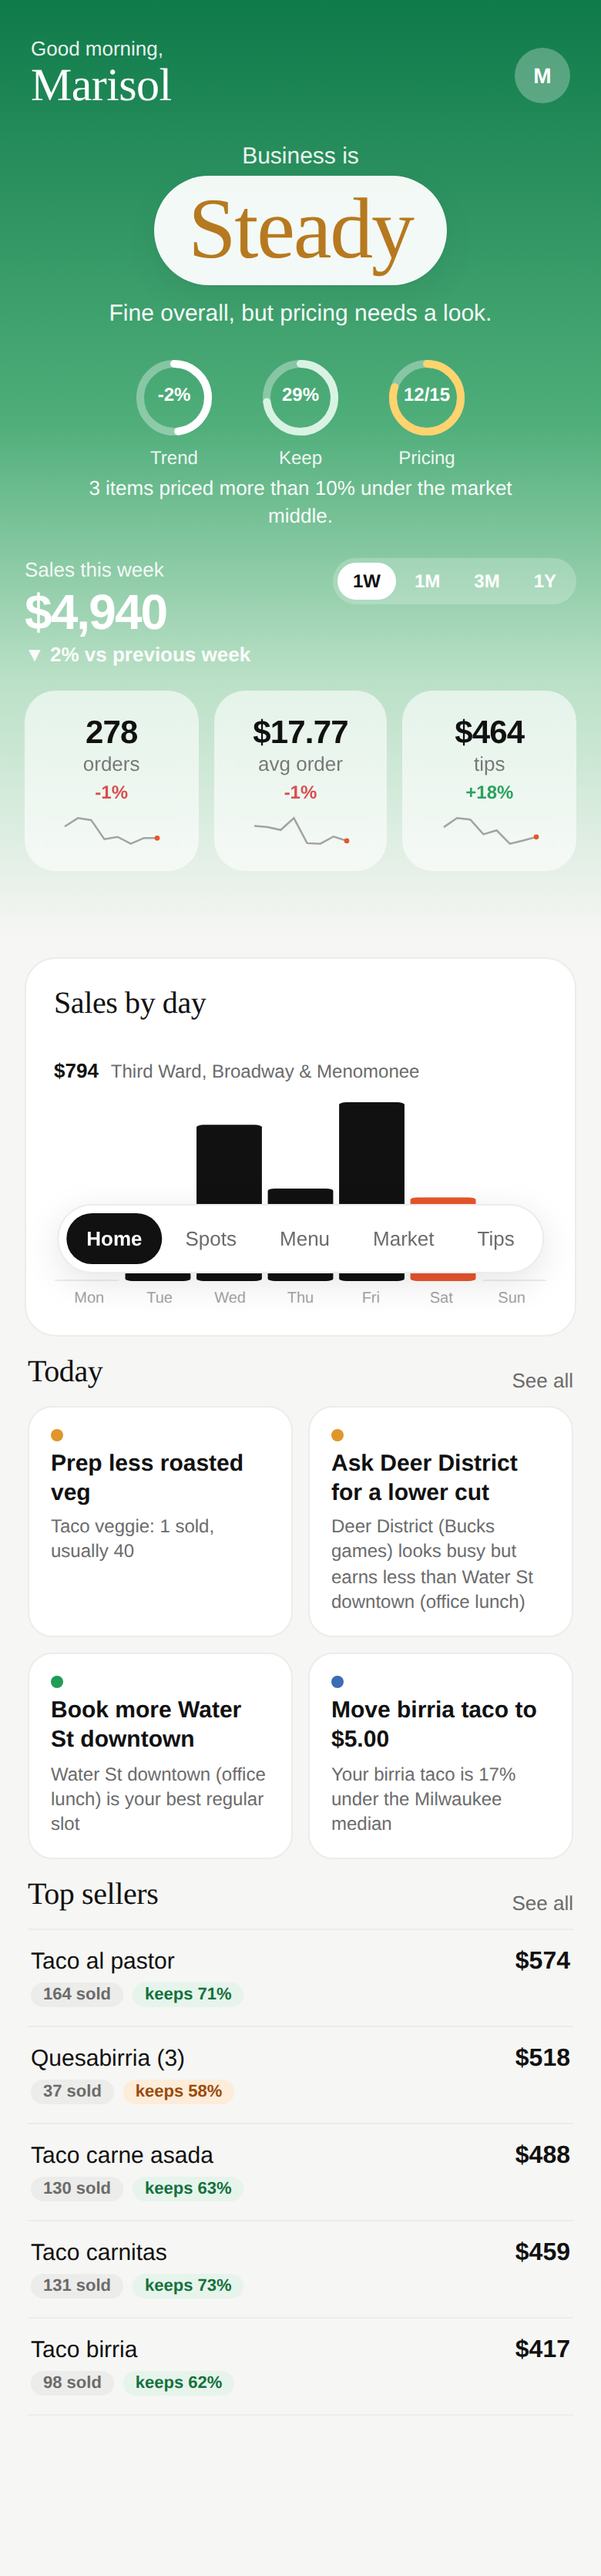
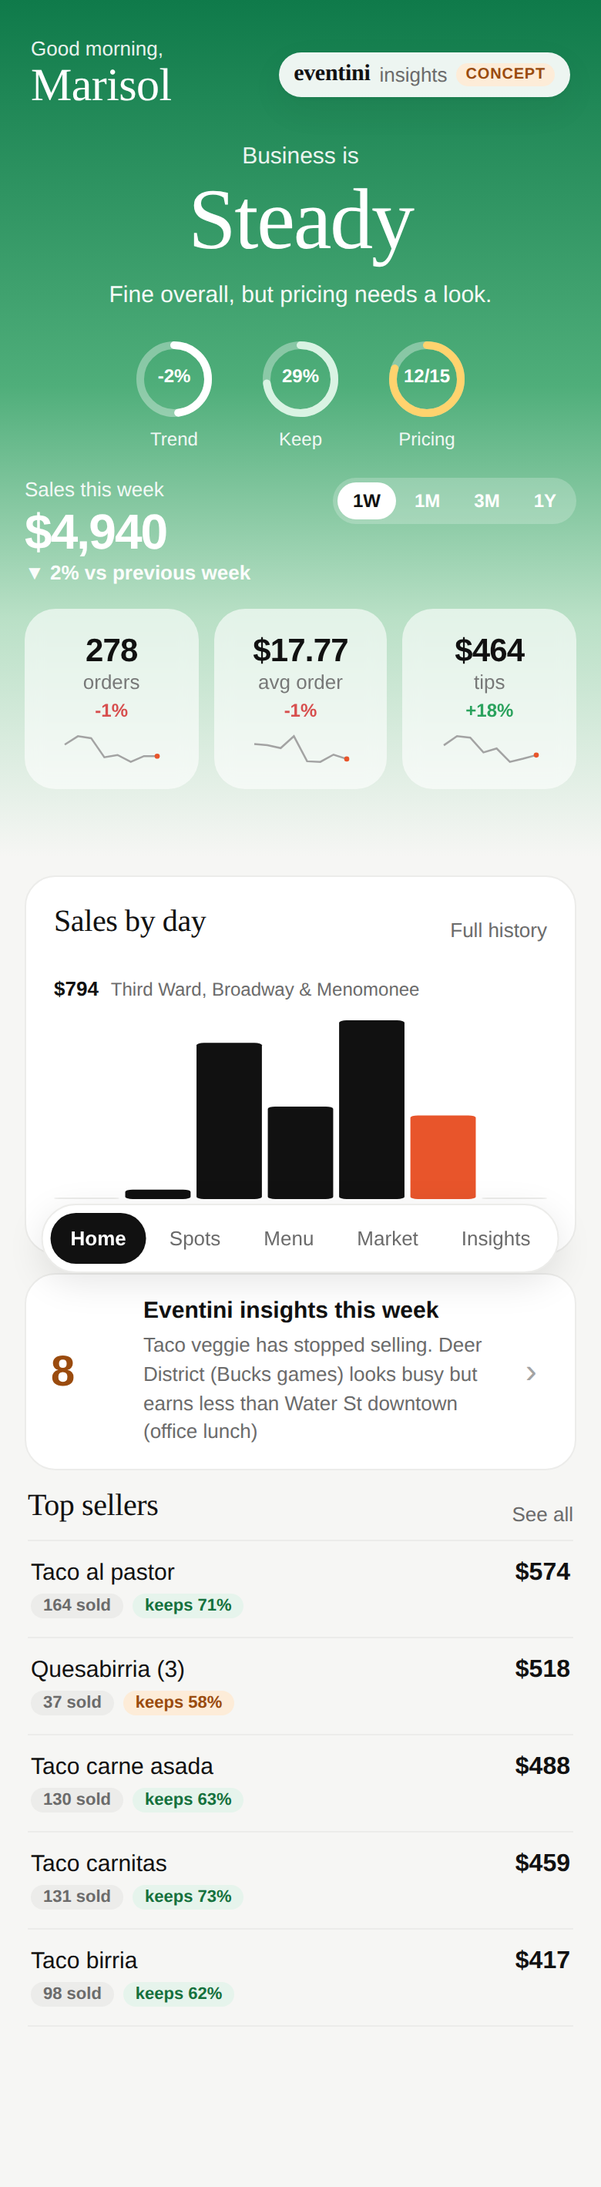
Insights as a page of number-first rows; Home gets one line
The Tips screen becomes Insights, grouped by Stock, Sales, Spots, Menu,
Market, Weather and Tips. Each row leads with its figure, then the claim
and the evidence; tap to open the actions and the method. Home drops the
2x2 action grid for a single line with the count and the two headline
insights. /tips still routes to the new page.

Claude-Session: https://claude.ai/code/session_011kULvXi1EhLGoQfkcWDNEp

diff --git a/food-truck-app/src/lib/insights.ts b/food-truck-app/src/lib/insights.ts
@@ -13,6 +13,8 @@ export type Insight = {
   evidence: string
   action?: string
   short: string            // a few words, imperative, for the Today tiles
+  figure: string           // the one number that leads the row
+  section: 'Sales' | 'Spots' | 'Menu' | 'Market' | 'Weather' | 'Tips'
 }
 
 export function weeklyInsights(): Insight[] {
@@ -28,6 +30,7 @@ export function weeklyInsights(): Insight[] {
     out.push({
       id: 'wow', tone: ch >= 0 ? 'good' : 'warn',
       short: `Sales ${ch >= 0 ? 'up' : 'down'} ${pct(Math.abs(ch), false)}`,
+      figure: pct(ch), section: 'Sales',
       title: `Sales ${ch >= 0 ? 'up' : 'down'} ${pct(Math.abs(ch), false)} on last week`,
       body: best
         ? `${money(now.gross)} this week against ${money(prev.gross)} last week. Best day was ${weekday(best.date)} at ${locationById.get(best.location_id!)?.name} (${money(best.gross_sales ?? 0)}).`
@@ -49,6 +52,7 @@ export function weeklyInsights(): Insight[] {
     out.push({
       id: 'fees', tone: 'warn',
       short: `Ask ${feeHeavy.loc.name.replace(/ \(.*\)/, '')} for a lower cut`,
+      figure: `${money(feeHeavy.netPerHour)}/hr`, section: 'Spots',
       title: `${feeHeavy.loc.name} looks busy but earns less than ${noFee.loc.name}`,
       body: `It takes ${money(feeHeavy.grossPerHour)} an hour at the till, more than any no-fee spot. After the ${pct(feeHeavy.loc.pctFee, false)} cut and ${money(feeHeavy.loc.flatFee)} pitch fee you keep ${money(feeHeavy.netPerHour)} an hour. ${noFee.loc.name} has no fee and nets ${money(noFee.netPerHour)}.`,
       evidence: `Last 12 months: ${feeHeavy.days} days there, ${money(feeHeavy.fees)} in fees on ${money(feeHeavy.gross)} of sales.`,
@@ -62,6 +66,7 @@ export function weeklyInsights(): Insight[] {
     out.push({
       id: 'best-slot', tone: 'good',
       short: `Book more ${bestNet.loc.name.replace(/ \(.*\)/, '')}`,
+      figure: `${money(bestNet.netPerHour)}/hr`, section: 'Spots',
       title: `${bestNet.loc.name} is your best regular slot`,
       body: `${money(bestNet.netPerHour)} an hour after fees over the last 12 months, from ${bestNet.days} visits.`,
       evidence: `Ranked on net sales per trading hour; festivals, markets, game days and spots with fewer than 8 visits excluded.`,
@@ -81,6 +86,7 @@ export function weeklyInsights(): Insight[] {
     out.push({
       id: 'price', tone: 'info',
       short: `Move ${top.item_label.toLowerCase().replace(/,.*$/, '')} to ${money(Math.floor(top.median * 4) / 4, { cents: true })}`,
+      figure: pct(top.hero_vs_median ?? 0), section: 'Market',
       title: `Your ${top.item_label.toLowerCase().replace(/,.*$/, '')} is ${pct(Math.abs(top.hero_vs_median ?? 0), false)} under the Milwaukee median`,
       body: `You charge ${money(top.hero_price ?? 0, { cents: true })}; ${top.n_trucks} other Mexican trucks charge between ${money(top.min, { cents: true })} and ${money(top.max, { cents: true })}, median ${money(top.median, { cents: true })}.`,
       evidence: `You sold ${sold.toLocaleString()} in the last 3 months. Each $0.25 would have been about ${money(sold * 0.25)}.`,
@@ -96,6 +102,7 @@ export function weeklyInsights(): Insight[] {
     out.push({
       id: 'margin', tone: 'warn',
       short: `Trim the ${thin.item.name.toLowerCase().replace(/ \(.*\)/, '')} recipe`,
+      figure: pct(thin.margin, false), section: 'Menu',
       title: `${thin.item.name} keeps only ${pct(thin.margin, false)} of its price`,
       body: `Ingredients cost ${money(thin.item.cost, { cents: true })} of a ${money(thin.item.price, { cents: true })} sale.${fat ? ` ${fat.item.name} keeps ${pct(fat.margin, false)}.` : ''}`,
       evidence: `Based on your recipe costs and ${thin.qty.toLocaleString()} sold in the last 3 months.`,
@@ -113,6 +120,7 @@ export function weeklyInsights(): Insight[] {
     out.push({
       id: 'rain', tone: 'info',
       short: 'Check the forecast before prep',
+      figure: pct(-(1 - r / dr)), section: 'Weather',
       title: `A wet day costs you about ${pct(1 - r / dr, false)} of sales`,
       body: `Summer rain days averaged ${money(r)} against ${money(dr)} on dry days.`,
       evidence: `${rain.length} rain days and ${dry.length} dry days, May to September.`,
@@ -133,6 +141,7 @@ export function weeklyInsights(): Insight[] {
     out.push({
       id: 'tips', tone: 'info',
       short: `Tips best at ${typeLabel(hi.type)}`,
+      figure: pct(hi.rate, false), section: 'Tips',
       title: `Tips run ${pct(hi.rate, false)} at ${typeLabel(hi.type)} and ${pct(lo.rate, false)} at ${typeLabel(lo.type)}`,
       body: `Over the year that is ${money(totals(daysBetween(yr.from, yr.to)).tips)} in tips, most of it from card and tap.`,
       evidence: 'Tips as a share of sales by venue type, last 12 months.',

diff --git a/food-truck-app/src/screens/Insights.tsx b/food-truck-app/src/screens/Insights.tsx
@@ -1,0 +1,75 @@
+import { Card } from '../components/ui'
+import { Brand } from '../components/Brand'
+import { TODAY, money, shortDate } from '../lib/data'
+import { weeklyInsights, type Insight } from '../lib/insights'
+import { stockAlerts } from '../lib/stock'
+
+const ORDER: Insight['section'][] = ['Sales', 'Spots', 'Menu', 'Market', 'Weather', 'Tips']
+
+export default function Insights() {
+  const tips = weeklyInsights()
+  const stock = stockAlerts()
+  const sections = ORDER.map((s) => ({ name: s, items: tips.filter((t) => t.section === s) })).filter((s) => s.items.length)
+
+  return (
+    <>
+      <section className="grad warm">
+        <header className="top">
+          <h1>Insights</h1>
+          <Brand />
+        </header>
+        <div className="label">Week of {shortDate(TODAY)}</div>
+        <div className="big">{tips.length + stock.length}</div>
+        <div className="label">worked out from your own numbers</div>
+      </section>
+
+      {stock.length > 0 && (
+        <section className="block">
+          <h2>Stock</h2>
+          <Card className="rows">
+            {stock.map((s) => (
+              <details key={s.id} className="irow">
+                <summary>
+                  <span className="fig">{money(s.wastePerWeek)}<small>/wk</small></span>
+                  <span className="txt">
+                    <b>{s.item.name} has stopped selling</b>
+                    <span>{s.unitsNow} this week against about {s.unitsBase} a week before. About {s.surplusLabel} of {s.ingredient} a week is going in the bin.</span>
+                  </span>
+                </summary>
+                <div className="irow-body">
+                  <p><b>First:</b> {s.prepLine}</p>
+                  <p><b>This week:</b> {s.dealLine}</p>
+                  <p><b>Or:</b> {s.freeLine}</p>
+                  <p className="muted">How: units per 100 orders this week against the previous 8 weeks, so a quiet week or a different venue does not count.</p>
+                </div>
+              </details>
+            ))}
+          </Card>
+        </section>
+      )}
+
+      {sections.map((sec) => (
+        <section className="block" key={sec.name}>
+          <h2>{sec.name}</h2>
+          <Card className="rows">
+            {sec.items.map((t) => (
+              <details key={t.id} className="irow">
+                <summary>
+                  <span className={`fig ${t.tone}`}>{t.figure}</span>
+                  <span className="txt">
+                    <b>{t.title}</b>
+                    <span>{t.body}</span>
+                  </span>
+                </summary>
+                <div className="irow-body">
+                  {t.action && <p>{t.action}</p>}
+                  <p className="muted">How: {t.evidence}</p>
+                </div>
+              </details>
+            ))}
+          </Card>
+        </section>
+      ))}
+    </>
+  )
+}

diff --git a/food-truck-app/src/screens/Home.tsx b/food-truck-app/src/screens/Home.tsx
@@ -25,11 +25,6 @@ export default function Home({ range, setRange }: { range: RangeKey; setRange: (
   const metric: Metric = 'sales'
   const pick = (m: Metric) => navigate(`/history/${m}`)
 
-  // Today: the stock alert first, then the strongest tips, as short actions.
-  const today = [
-    ...stock.slice(0, 1).map((s) => ({ id: s.id, title: `Prep less ${s.ingredient}`, sub: `${s.item.name}: ${s.unitsNow} sold, usually ${s.unitsBase}`, tone: 'warn' as const })),
-    ...tips.filter((t) => t.id !== 'wow').map((t) => ({ id: t.id, title: t.short, sub: t.title, tone: t.tone })),
-  ].slice(0, 4)
 
   return (
     <>
@@ -81,21 +76,16 @@ export default function Home({ range, setRange }: { range: RangeKey; setRange: (
         <Bars bars={buckets(range, w.from, w.to, metric)} format={(v) => formatMetric(v, metric)} />
       </Card>
 
-      <section className="block">
-        <div className="row">
-          <h2>Eventini insights</h2>
-          <Link to="/tips" className="more">See all</Link>
-        </div>
-        <div className="today">
-          {today.map((t) => (
-            <Link key={t.id} to="/tips" className={`today-tile ${t.tone}`}>
-              <span className="dot" aria-hidden />
-              <b>{t.title}</b>
-              <span>{t.sub}</span>
-            </Link>
-          ))}
-        </div>
-      </section>
+      <Link to="/insights" className="plain">
+        <Card className="line">
+          <span className="fig warn">{tips.length + stock.length}</span>
+          <span className="txt">
+            <b>Eventini insights this week</b>
+            <span>{stock[0] ? `${stock[0].item.name} has stopped selling. ` : ''}{tips.find((t) => t.id === 'fees')?.title ?? tips[0]?.title}</span>
+          </span>
+          <span className="chev">›</span>
+        </Card>
+      </Link>
 
       <section className="block">
         <div className="row">

diff --git a/food-truck-app/src/app.css b/food-truck-app/src/app.css
@@ -273,3 +273,22 @@ button.tile { font: inherit; border: 0; cursor: pointer; text-align: center; }
 .seg { display: flex; gap: 4px; padding: 4px; background: rgba(255,255,255,0.22); border-radius: 999px; margin: 8px 0 4px; }
 .seg a { flex: 1; text-align: center; font-size: 13px; font-weight: 600; color: #fff; text-decoration: none; padding: 8px 0; border-radius: 999px; }
 .seg a.on { background: #fff; color: var(--ink); }
+
+/* insight rows: number first */
+.rows { padding: 4px 16px; }
+.irow { border-top: 1px solid var(--line); }
+.irow:first-child { border-top: 0; }
+.irow summary { list-style: none; display: grid; grid-template-columns: 84px 1fr; gap: 12px; padding: 14px 0; cursor: pointer; align-items: start; }
+.irow summary::-webkit-details-marker { display: none; }
+.fig { font-size: 22px; font-weight: 700; letter-spacing: -0.02em; font-variant-numeric: tabular-nums; line-height: 1.1; color: var(--ink); }
+.fig small { font-size: 12px; font-weight: 500; color: var(--ink-3); margin-left: 1px; }
+.fig.warn { color: #9a4b0e; }
+.fig.good { color: #15713d; }
+.txt { display: flex; flex-direction: column; gap: 3px; }
+.txt b { font-size: 15px; font-weight: 600; line-height: 1.3; }
+.txt > span { font-size: 13px; color: var(--ink-2); line-height: 1.45; }
+.irow-body { padding: 0 0 14px 96px; font-size: 13px; line-height: 1.5; }
+.irow-body p { margin: 0 0 8px; }
+.line { display: grid; grid-template-columns: 48px 1fr 16px; gap: 12px; align-items: center; padding: 14px 16px; }
+.line .fig { font-size: 28px; }
+.line .chev { color: var(--ink-3); font-size: 22px; }

diff --git a/food-truck-app/src/App.tsx b/food-truck-app/src/App.tsx
@@ -6,7 +6,7 @@ import Home from './screens/Home'
 import Market from './screens/Market'
 import Menu from './screens/Menu'
 import Spots from './screens/Spots'
-import Tips from './screens/Tips'
+import Insights from './screens/Insights'
 import History from './screens/History'
 import './app.css'
 
@@ -21,7 +21,8 @@ export default function App() {
           <Route path="/spots" element={<Spots range={range} setRange={setRange} />} />
           <Route path="/menu" element={<Menu range={range} setRange={setRange} />} />
           <Route path="/market" element={<Market />} />
-          <Route path="/tips" element={<Tips />} />
+          <Route path="/insights" element={<Insights />} />
+          <Route path="/tips" element={<Insights />} />
           <Route path="/history/:metric" element={<History />} />
         </Routes>
         <Nav />

diff --git a/food-truck-app/src/components/ui.tsx b/food-truck-app/src/components/ui.tsx
@@ -40,7 +40,7 @@ export function Pills({ value, onChange }: { value: RangeKey; onChange: (k: Rang
 
 export function Nav() {
   const items = [
-    ['/', 'Home'], ['/spots', 'Spots'], ['/menu', 'Menu'], ['/market', 'Market'], ['/tips', 'Tips'],
+    ['/', 'Home'], ['/spots', 'Spots'], ['/menu', 'Menu'], ['/market', 'Market'], ['/insights', 'Insights'],
   ]
   return (
     <nav className="nav">
